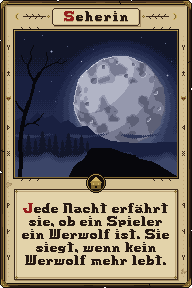
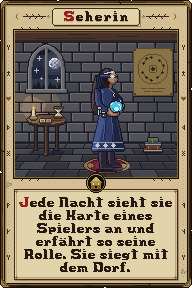
Seherin-Karte
- Animierte Seherin-Karte eingebunden (verlustfrei mit Farbpalette)
- Seherin sieht in der Oberflaeche standardmaessig die genaue Rolle
  (Originalregel, passend zum Kartentext); Werwolf ja/nein bleibt waehlbar
- Rollenbeschreibung und Nachtfrage passen sich der Einstellung an
  (neues optionales Feld descriptionFor)

Claude-Session: https://claude.ai/code/session_01TK7gJoQ6SGeQsbXAg9JkfL

diff --git a/src/roles/seer.ts b/src/roles/seer.ts
@@ -21,7 +21,9 @@ const investigate: AbilityDefinition = {
       .filter((p) => options.canInspectSelf || p.id !== actor.id)
       .map((p) => p.id);
   },
-  describe: () => ({ title: 'Wessen Gesinnung möchtest du sehen?' }),
+  describe: (ctx) => ({
+    title: ctx.options<SeerOptions>('seer').result === 'role' ? 'Wessen Karte möchtest du ansehen?' : 'Wessen Gesinnung möchtest du sehen?',
+  }),
   onSubmit(ctx, actor, input) {
     const target = ctx.player(input.targets[0]);
     const role = ctx.role(target);
@@ -42,10 +44,16 @@ const investigate: AbilityDefinition = {
   },
 };
 
+const DESCRIPTIONS: Record<SeerOptions['result'], string> = {
+  role: 'Sieht sich jede Nacht die Karte eines Spielers an und erfährt so seine Rolle. Sie kann ihr Wissen tagsüber teilen.',
+  faction: 'Untersucht jede Nacht einen Spieler und erfährt, ob er zu den Werwölfen gehört. Sie kann ihr Wissen tagsüber teilen.',
+};
+
 export const seer = defineRole({
   id: 'seer',
   name: 'Seherin',
-  description: 'Untersucht jede Nacht einen Spieler und erfährt, ob er zu den Werwölfen gehört. Sie kann ihr Wissen tagsüber teilen.',
+  description: DESCRIPTIONS.faction,
+  descriptionFor: (ctx) => DESCRIPTIONS[ctx.options<SeerOptions>('seer').result],
   faction: 'village',
   team: 'village',
   unique: true,

diff --git a/src/ui/setup.ts b/src/ui/setup.ts
@@ -102,7 +102,7 @@ export class SetupScreen {
       specials: ['seer', 'witch', 'hunter', 'cupid'],
       counts: {},
       rules: { ...DEFAULT_RULES, nightMode: 'pass' },
-      seerResult: 'faction',
+      seerResult: 'role',
       witchSelfHeal: true,
       witchBoth: true,
       mixedLovers: false,
@@ -362,7 +362,7 @@ export class SetupScreen {
         select('Gleichstand in der Stichwahl', r.runoffTieBreak, [['none', 'Niemand stirbt'], ['random', 'Zufall']], (v) => (r.runoffTieBreak = v)),
         select('Beim Tod aufdecken', r.revealRoleOnDeath, [['role', 'Rolle'], ['faction', 'Nur Fraktion'], ['none', 'Nichts']], (v) => (r.revealRoleOnDeath = v)),
         select('Sieg der Werwölfe', r.werewolfWin, [['parity', 'Bei Gleichstand (Parität)'], ['elimination', 'Erst wenn alle Gegner tot sind']], (v) => (r.werewolfWin = v)),
-        select('Seherin sieht', s.seerResult, [['faction', 'Werwolf ja/nein'], ['role', 'Genaue Rolle']], (v) => (s.seerResult = v)),
+        select('Seherin sieht', s.seerResult, [['role', 'Genaue Rolle'], ['faction', 'Werwolf ja/nein']], (v) => (s.seerResult = v)),
         h('label', { class: 'field' }, 'Diskussionszeit (Sekunden, 0 = ohne)', numberInput(s.discussion, 0, (n) => (s.discussion = n), 'Diskussionszeit')),
       ),
       h(

diff --git a/tests/night.test.ts b/tests/night.test.ts
@@ -25,6 +25,15 @@ describe('Seherin', () => {
     expect(roleResult.ok && roleResult.events.find((e) => e.type === 'seer-result')?.text).toBe('Clara ist: Hexe.');
   });
 
+  it('beschreibt Karte und Frage passend zur Einstellung', () => {
+    const faction = setupGame(['werewolf', 'seer', 'villager', 'villager', 'villager']);
+    expect(faction.viewFor('p2').self.role?.description).toContain('ob er zu den Werwölfen gehört');
+    expect(faction.viewFor('p2').pending[0]?.title).toBe('Wessen Gesinnung möchtest du sehen?');
+    const role = setupGame(['werewolf', 'seer', 'villager', 'villager', 'villager'], { options: { seer: { result: 'role' } } });
+    expect(role.viewFor('p2').self.role?.description).toContain('erfährt so seine Rolle');
+    expect(role.viewFor('p2').pending[0]?.title).toBe('Wessen Karte möchtest du ansehen?');
+  });
+
   it('darf sich nicht selbst untersuchen', () => {
     const game = setupGame(['werewolf', 'seer', 'villager', 'villager', 'villager']);
     expectError(use(game, 'p2', 'seer.investigate', ['p2']), 'INVALID_TARGET');

diff --git a/src/engine/definitions.ts b/src/engine/definitions.ts
@@ -98,6 +98,8 @@ export interface RoleDefinition {
   id: RoleId;
   name: string;
   description: string;
+  /** Beschreibung passend zu den eingestellten Optionen; ersetzt `description` in der Spieleransicht. */
+  descriptionFor?(ctx: EngineContext): string;
   /** Gesinnung (was z.B. die Seherin sieht). */
   faction: Faction;
   /** Siegteam (mit wem die Rolle gewinnt). */

diff --git a/src/engine/views.ts b/src/engine/views.ts
@@ -121,7 +121,7 @@ export function roleInfo(ctx: EngineContext, roleId: RoleId): RoleInfo {
   return {
     id: role.id,
     name: role.name,
-    description: role.description,
+    description: role.descriptionFor?.(ctx) ?? role.description,
     faction: role.faction,
     factionName: FACTION_LABELS[role.faction],
     team: role.team,

diff --git a/docs/assets.md b/docs/assets.md
@@ -1,6 +1,6 @@
 # Grafikliste (Pixelgrafik, Retro-Stil)
 
-47 Grafiken (davon fertig: Werwolf, Dorfbewohner, Hexe, Rückseite; alle übrigen Rollenkarten sind mit dem Kartengenerator erzeugte Platzhalter mit gemeinsamer Szene), dazu 4 optionale und 6 Töne. Alles ist optional: Fehlt eine Datei, zeigt das Spiel einen Platzhalter.
+47 Grafiken (davon fertig: Werwolf, Dorfbewohner, Hexe, Seherin, Rückseite; alle übrigen Rollenkarten sind mit dem Kartengenerator erzeugte Platzhalter mit gemeinsamer Szene), dazu 4 optionale und 6 Töne. Alles ist optional: Fehlt eine Datei, zeigt das Spiel einen Platzhalter.
 
 Empfohlene Reihenfolge: Rollenkarten, Hintergründe, Avatare, Symbole, Logo.
 
@@ -13,14 +13,14 @@ Empfohlene Reihenfolge: Rollenkarten, Hintergründe, Avatare, Symbole, Logo.
 - **Werkzeuge:** Aseprite (kostenpflichtig) oder kostenlos LibreSprite, Pixelorama, Piskel (im Browser).
 - **Dateinamen:** klein und ohne Leerzeichen, genau wie unten. Ablage in `public/assets/`, Eintrag in `src/ui/assets.ts` (oder mir schicken).
 
-## 1. Rollenkarten (8)
+## 1. Rollenkarten (25)
 
 | Datei | Rolle | Stand |
 | --- | --- | --- |
 | `cards/werewolf.png` | Werwolf | fertig, animiert |
 | `cards/villager.png` | Dorfbewohner | fertig, animiert |
 | `cards/witch.png` | Hexe | fertig, animiert |
-| `cards/seer.png` | Seherin | animiert, Bild: Nachtszene ohne Wolf |
+| `cards/seer.png` | Seherin | fertig, animiert |
 | `cards/hunter.png` | Jäger | animiert, Bild: Nachtszene ohne Wolf |
 | `cards/cupid.png` | Amor | animiert, Bild: Nachtszene ohne Wolf |
 | `cards/thief.png` | Dieb | animiert, Bild: Nachtszene ohne Wolf |
@@ -28,7 +28,7 @@ Empfohlene Reihenfolge: Rollenkarten, Hintergründe, Avatare, Symbole, Logo.
 | `cards/healer.png`, `elder.png`, `idiot.png`, `scapegoat.png`, `piper.png` | Neumond: Heiler, Der Alte, Dorfdepp, Sündenbock, Flötenspieler | animiert, Bild: Nachtszene ohne Wolf |
 | `cards/sister.png`, `brother.png`, `wolfhound.png`, `wild-child.png`, `fox.png`, `bear-tamer.png`, `knight.png`, `judge.png`, `angel.png`, `urwolf.png`, `big-bad-wolf.png`, `white-werewolf.png` | Charaktere: Schwester, Bruder, Wolfshund, Wildes Kind, Fuchs, Bärenführer, Ritter, Richter, Engel, Urwolf, Großer böser Wolf, Weißer Werwolf | animiert, Bild: Nachtszene ohne Wolf, bei den drei Werwolf-Rollen mit Wolf |
 
-Alle Karten außer Werwolf, Dorfbewohner und Hexe sind mit dem Kartengenerator der Werwolf-Karte erzeugt: gleicher Rahmen, Haus im Medaillon bei Dorf-Rollen und Wolf bei Werwolf-Rollen, Titel und kurzer Kartentext je Rolle, gemeinsame Nachtszene. Ein eigenes Motiv je Rolle ersetzt später nur das Bildfeld.
+Alle Karten außer Werwolf, Dorfbewohner, Hexe und Seherin sind mit dem Kartengenerator der Werwolf-Karte erzeugt: gleicher Rahmen, Haus im Medaillon bei Dorf-Rollen und Wolf bei Werwolf-Rollen, Titel und kurzer Kartentext je Rolle, gemeinsame Nachtszene. Ein eigenes Motiv je Rolle ersetzt später nur das Bildfeld.
 
 - **Komplette Karte wie die Werwolf-Karte: 192 x 288 Pixel** (2:3) mit eigenem Rahmen, Titel und Beschreibung. Das Spiel zeichnet keinen zusätzlichen Rahmen. Die abgenutzte Außenkante darf transparent sein.
 - Angezeigt 1x auf Handys, 2x (384 x 576) auf großen Bildschirmen, als Vorschau in der Endübersicht verkleinert (0,5x) mit dem Rollennamen darunter.

diff --git a/docs/grafik-checkliste.md b/docs/grafik-checkliste.md
@@ -1,6 +1,6 @@
 # Grafik-Checkliste
 
-Stand: 4 von 47 Grafiken fertig, dazu 4 optionale. Alles ist Pixelgrafik: PNG in Originalgröße (1x), harte Kanten, Farben der Werwolf-Karte. Details stehen in [assets.md](assets.md).
+Stand: 5 von 47 Grafiken fertig, dazu 4 optionale. Alles ist Pixelgrafik: PNG in Originalgröße (1x), harte Kanten, Farben der Werwolf-Karte. Details stehen in [assets.md](assets.md).
 
 Das Spiel läuft auch ohne die offenen Grafiken. Bis dahin zeigt es Platzhalter.
 
@@ -9,9 +9,10 @@ Das Spiel läuft auch ohne die offenen Grafiken. Bis dahin zeigt es Platzhalter.
 - [x] `cards/werewolf.png`: Werwolf (animiert)
 - [x] `cards/villager.png`: Dorfbewohner (animiert)
 - [x] `cards/witch.png`: Hexe (animiert)
+- [x] `cards/seer.png`: Seherin (animiert)
 - [x] `cards/back.png`: Kartenrückseite
 
-## 1. Rollenkarten (21)
+## 1. Rollenkarten (20)
 
 Im Spiel sind das zurzeit Platzhalter aus dem Kartengenerator: gleicher Rahmen, gleiche Nachtszene, eigener Titel und Text. Du ersetzt nur das Motiv.
 
@@ -21,7 +22,6 @@ Im Spiel sind das zurzeit Platzhalter aus dem Kartengenerator: gleicher Rahmen, 
 
 Grundspiel:
 
-- [ ] `cards/seer.png`: Seherin
 - [ ] `cards/hunter.png`: Jäger
 - [ ] `cards/cupid.png`: Amor
 - [ ] `cards/thief.png`: Dieb

diff --git a/README.md b/README.md
@@ -60,7 +60,7 @@ Grundspiel ("Die Werwölfe von Düsterwald"):
 | --- | --- | --- |
 | Dorfbewohner | Dorf | keine |
 | Werwolf | Werwölfe | wählt nachts gemeinsam mit dem Rudel ein Opfer, Rudel kennt sich |
-| Seherin | Dorf | untersucht nachts einen Spieler (Standard: Werwolf ja/nein) |
+| Seherin | Dorf | sieht nachts die Karte eines Spielers: genaue Rolle (Originalregel, Standard in der Oberfläche) oder nur Werwolf ja/nein (Standard der Engine) |
 | Hexe | Dorf | Heiltrank (rettet das Werwolfopfer) und Gifttrank, je einmal |
 | Jäger | Dorf | nimmt beim Tod einen Spieler mit |
 | Amor | Dorf | verliebt in Nacht 1 zwei Spieler, die gemeinsam sterben |

diff --git a/docs/neue-rolle.md b/docs/neue-rolle.md
@@ -54,6 +54,7 @@ export const protector = defineRole({
 | Feld | Bedeutung |
 | --- | --- |
 | `id`, `name`, `description` | Kennung und Texte |
+| `descriptionFor` | optional: Beschreibung passend zu den Optionen (z.B. Seherin: Rolle oder nur Werwolf ja/nein) |
 | `faction` | Gesinnung: `village`, `werewolves`, `neutral` (z.B. für die Seherin) |
 | `team` | Siegteam; eigene Teams über `rules` registrieren |
 | `unique` | höchstens einmal im Stapel |
